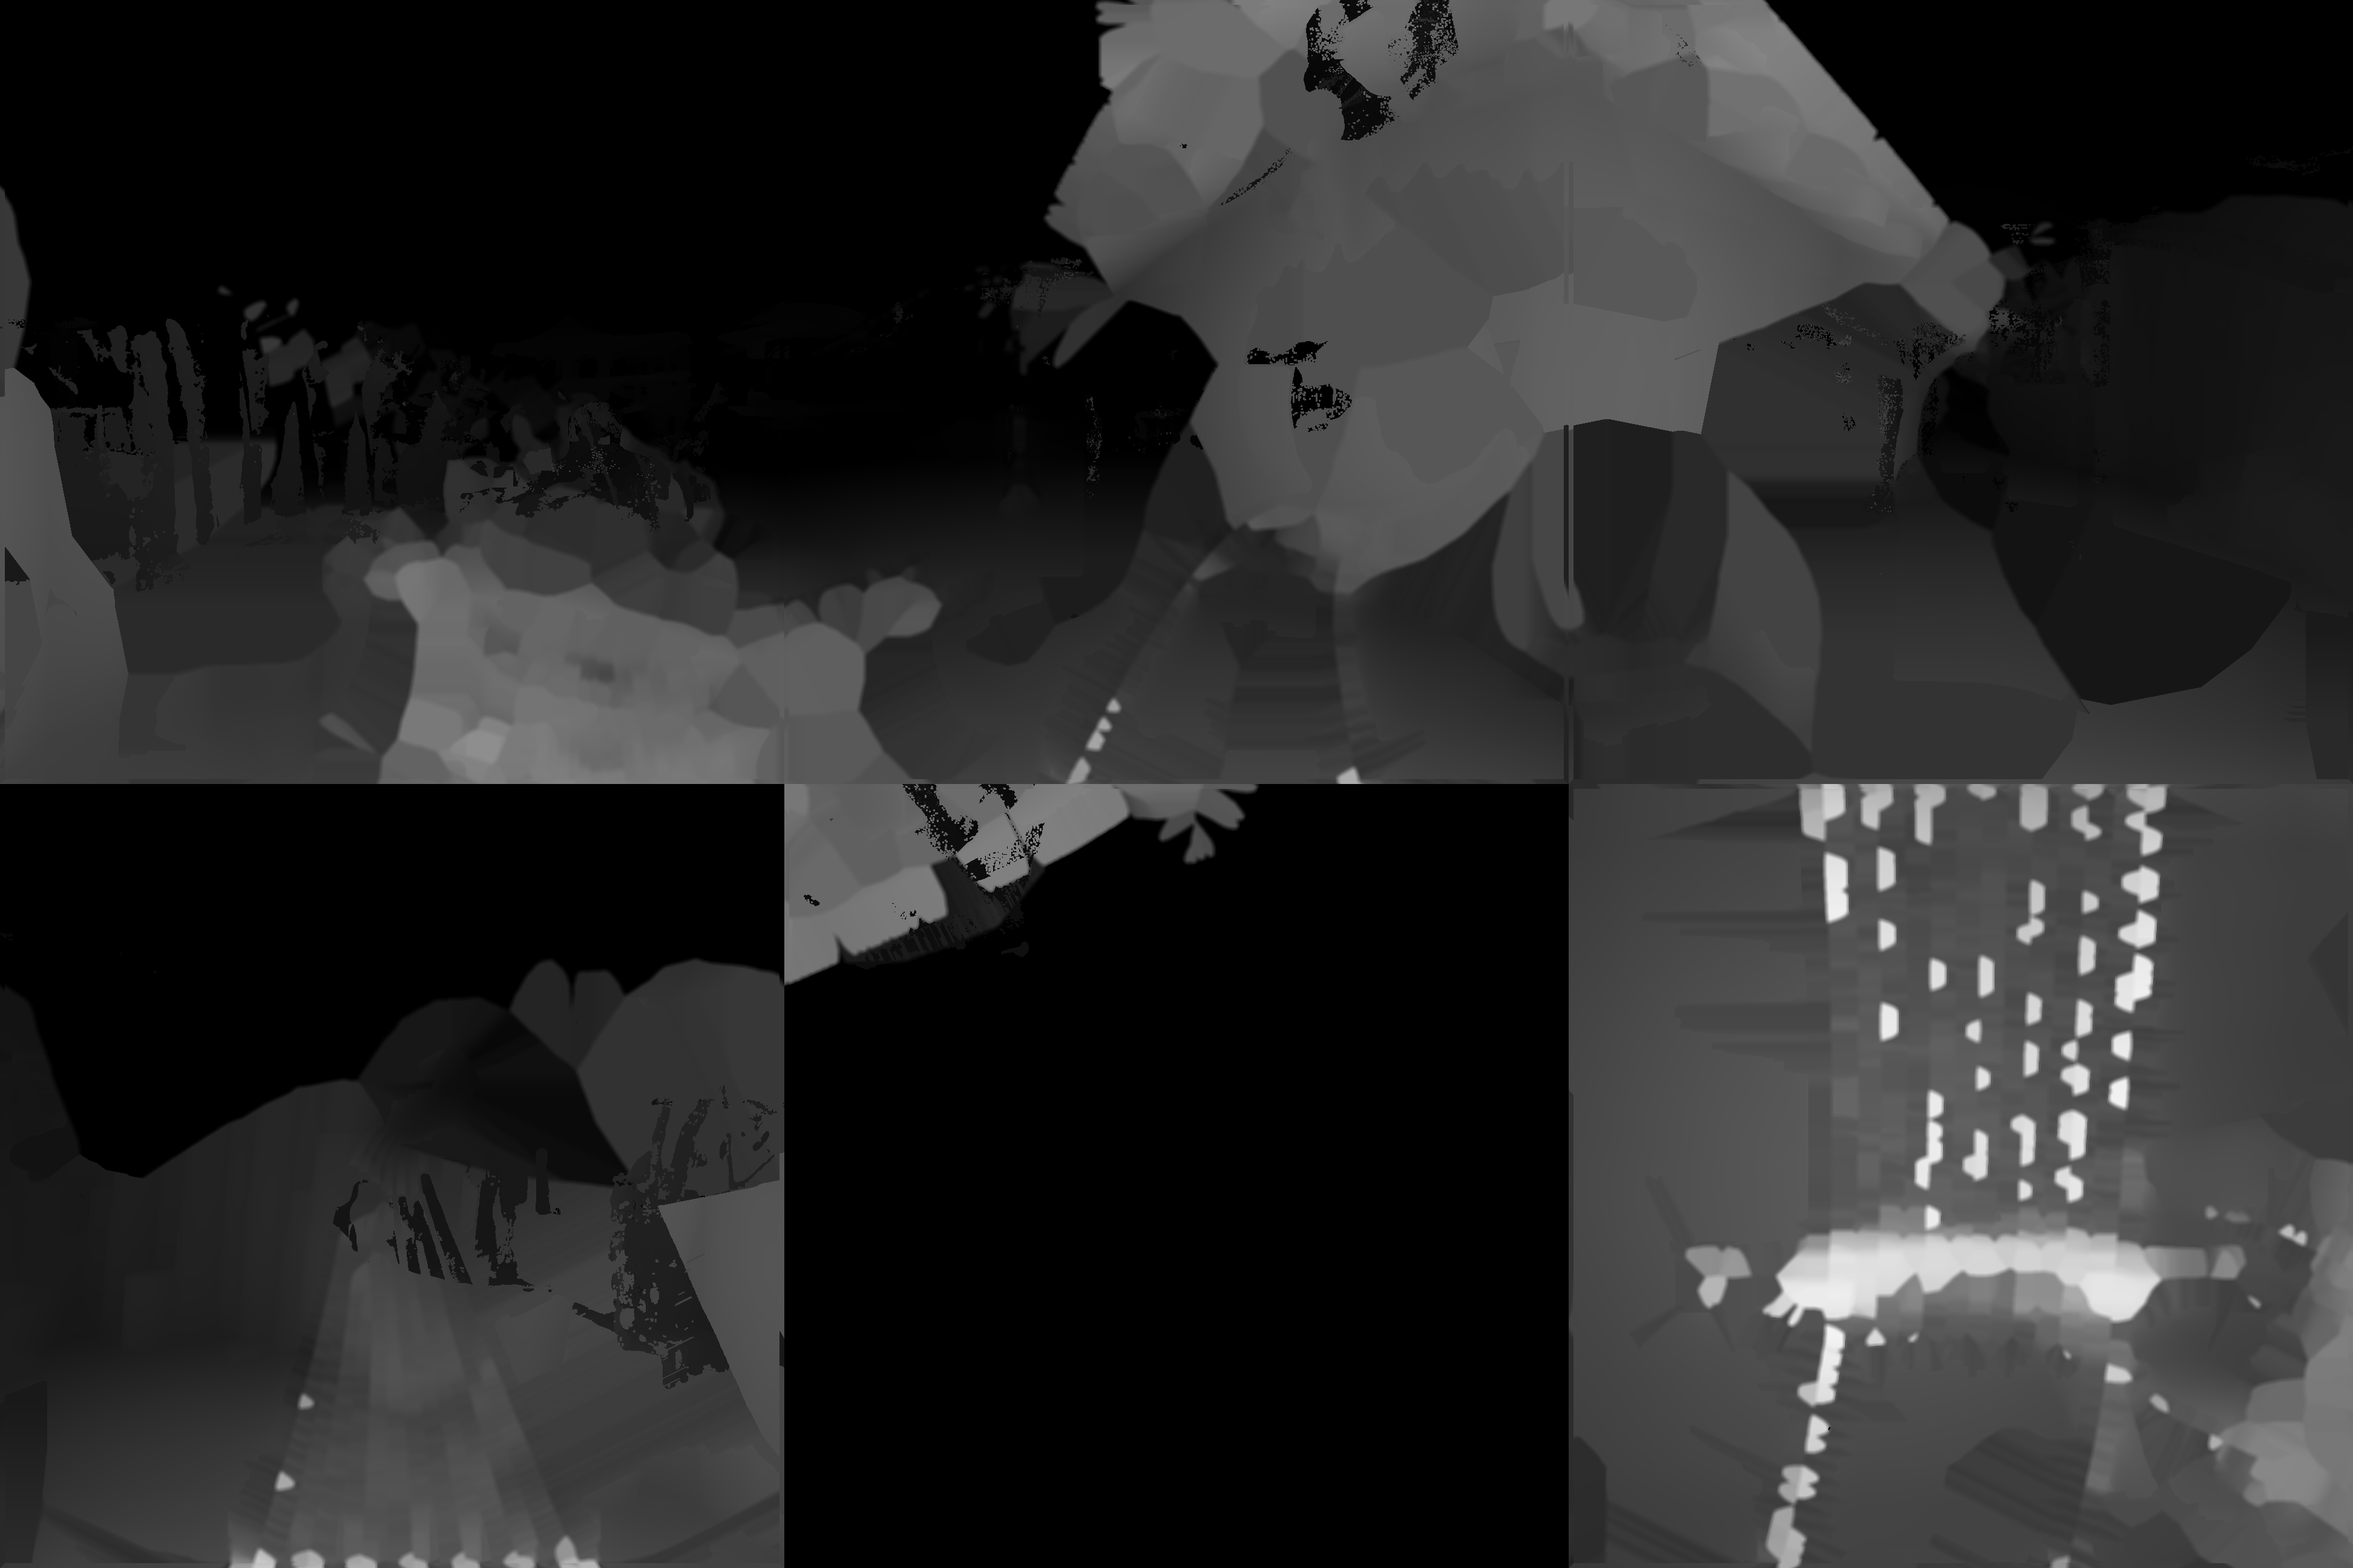
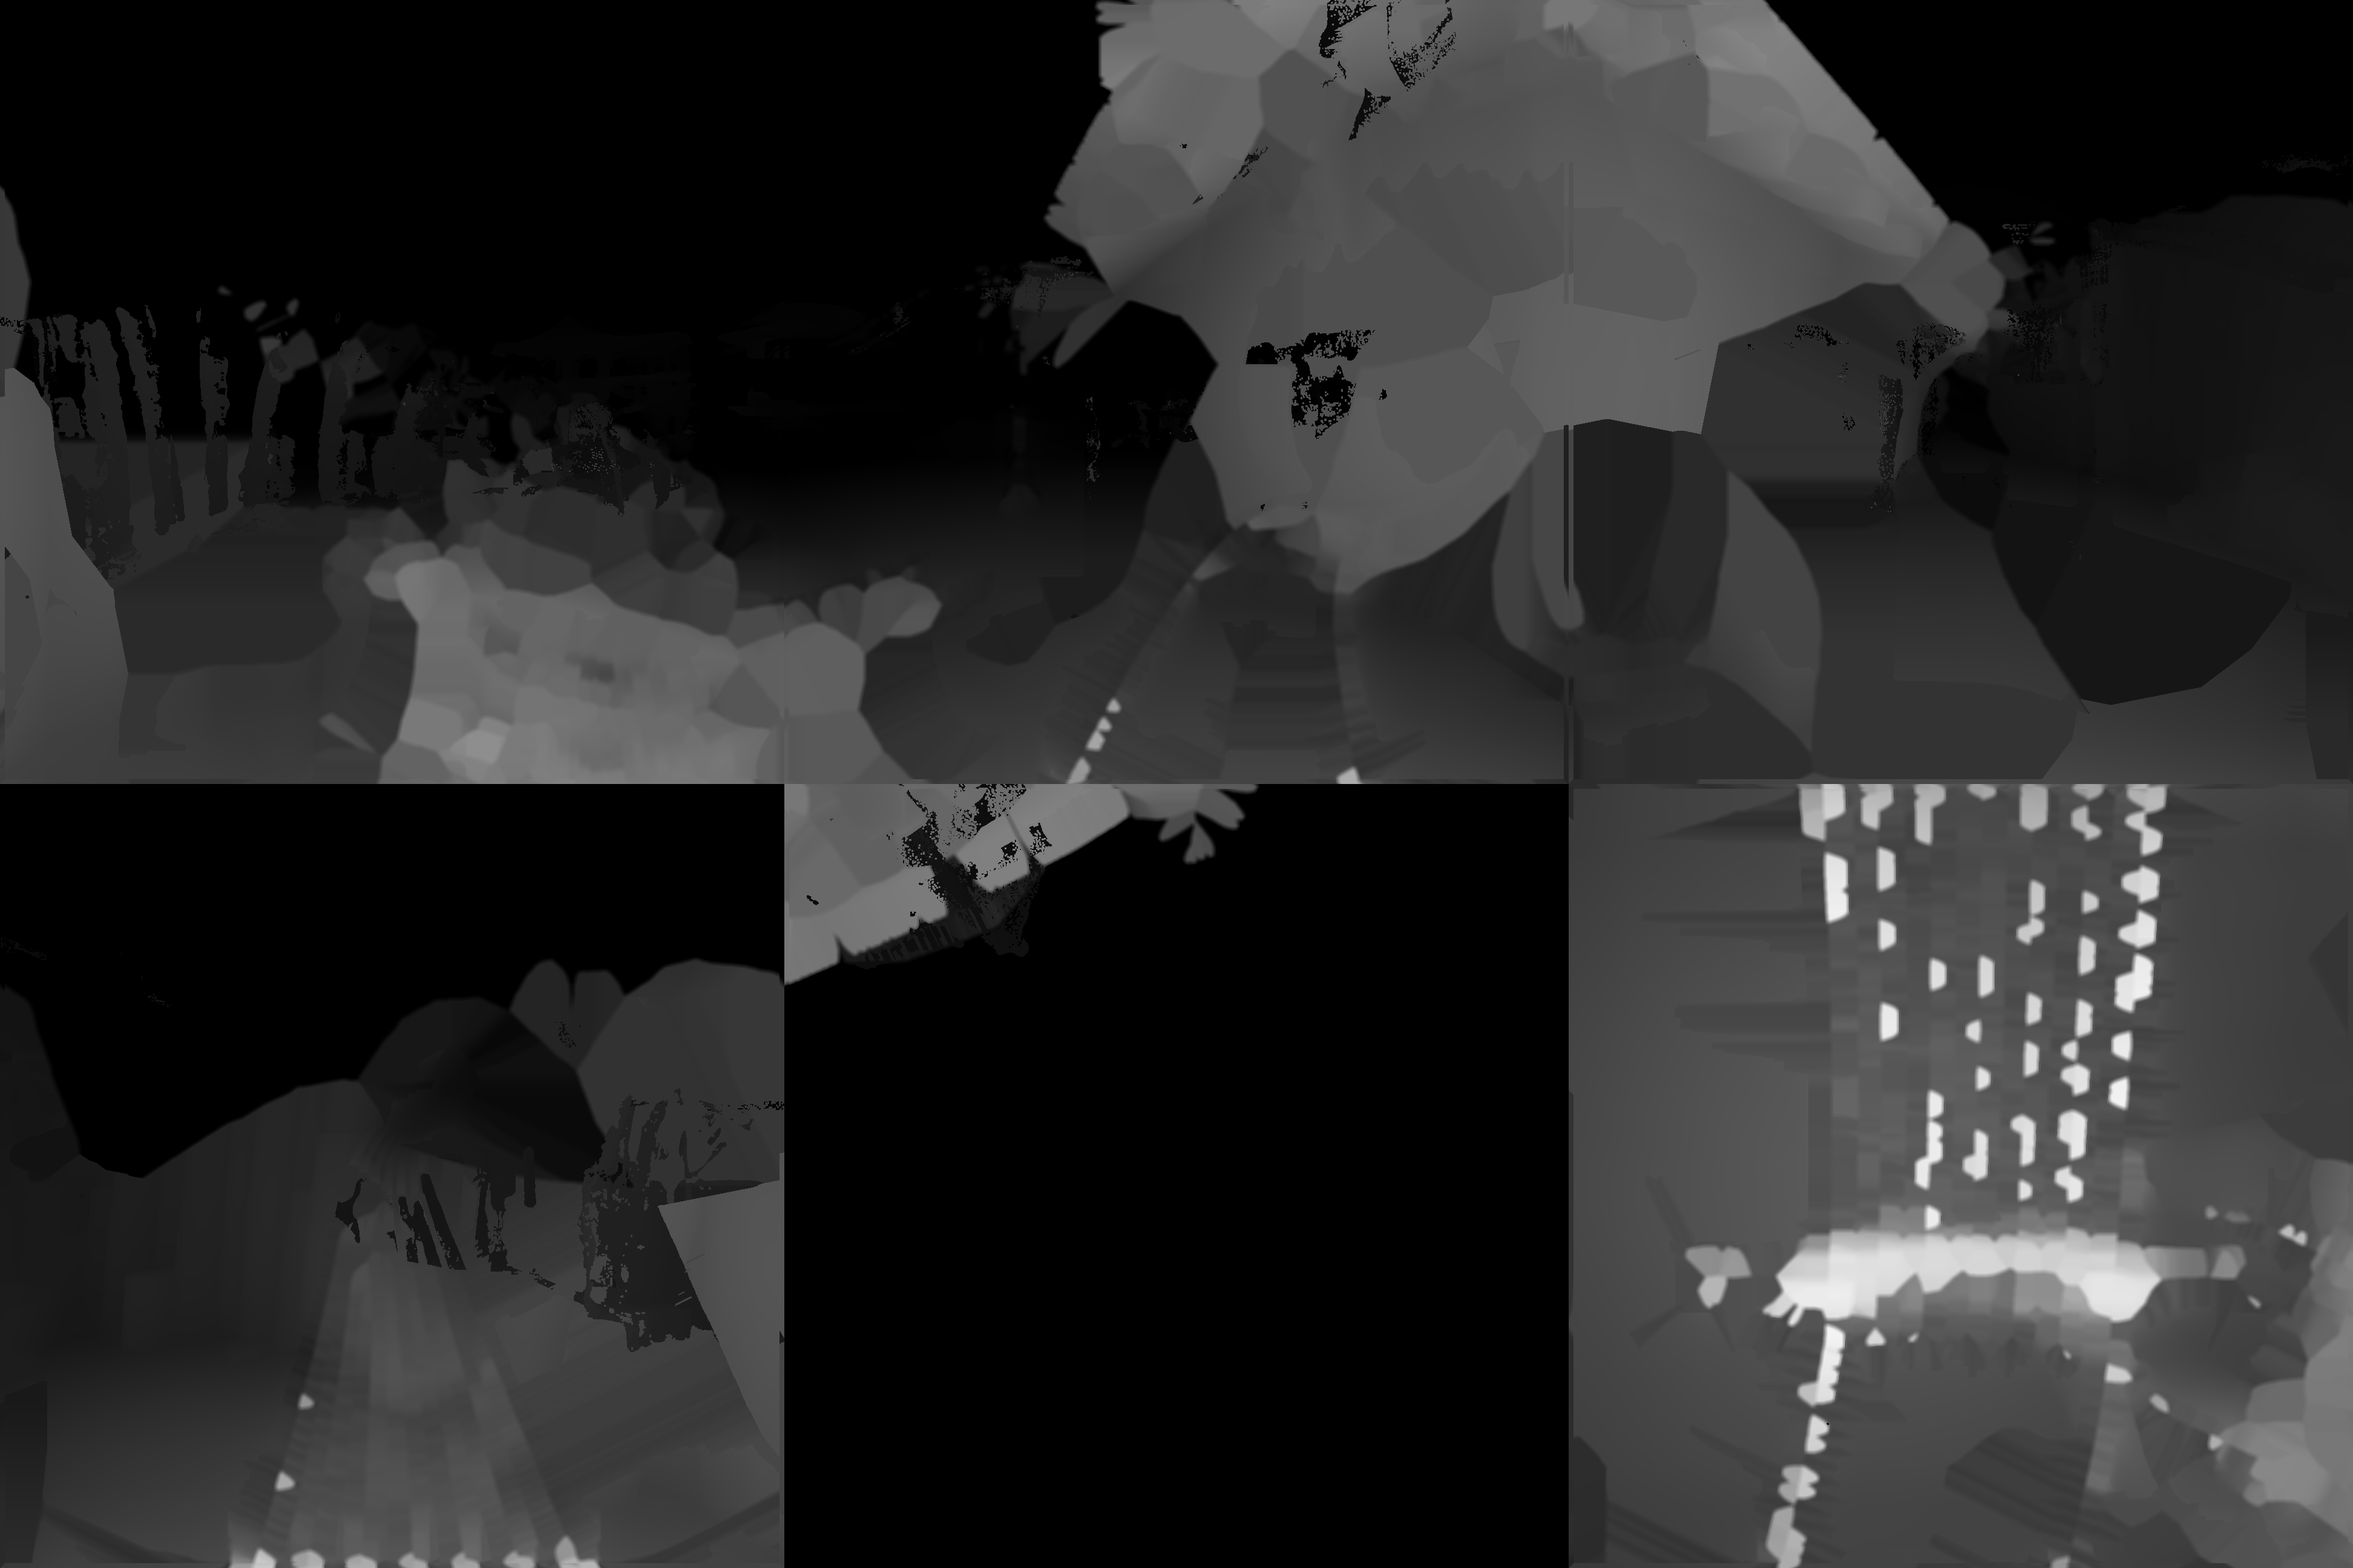
MASS 84's backdrop rebuilt from the model with its run moved back
Its neighbours were projected from where the joined model had misplaced the
MASS 82-90 run. From dense_movies_moved, other nodes' views now fill about 8%
of the hidden area inside near objects instead of 4% (face 6 18% from 6%), and
a figure the old placement put behind the arches is gone. build_layers.py
reports that share per face; the node file records the new inputs.

Claude-Session: https://claude.ai/code/session_01PGTZsQJKeQ77ippduWGzGV

diff --git a/cube/myst3/layers/build_layers.py b/cube/myst3/layers/build_layers.py
@@ -379,7 +379,10 @@ def main():
             keep = masks[k][inner]
             bg[k - 1][keep] = painted[keep]
         done[k - 1] = True
-        print(f'face {faces[k]}: {int(M[k - 1].sum())} px removed and painted ({M[k - 1].mean() * 100:.1f}%)')
+        inside = wholes[k][inner] & M[k - 1]
+        print(f'face {faces[k]}: {int(M[k - 1].sum())} px removed and painted ({M[k - 1].mean() * 100:.1f}%); '
+              f'inside near objects {int(inside.sum())} px, {used[k - 1][inside].mean() * 100 if inside.any() else 0:.1f}% '
+              f'of it seen by other nodes, the rest painted')
     q8 = lambda x: np.clip(np.rint(x), 0, 255).astype(np.uint8)
     for k, n in faces.items():
         d = dep[k].astype(np.float32)

diff --git a/cube/myst3/README.md b/cube/myst3/README.md
@@ -922,6 +922,25 @@ inside. So MASS 84 keeps its redrawn depth. Where DAP could count is at nodes
 with no measured depth, most of the game's, where nothing but blending holds
 Depth Anything's six faces together; not yet tried.
 
+### MASS 84's backdrop from the moved model
+
+MASS 84 is in the MASS 82-90 run moved back on 8 November 2026, so its
+backdrop, projected from its neighbours in `dense_movies`, had them from the
+wrong place. `build_layers.py` now says, per face, how much of the hidden area
+inside near objects other nodes saw. With `model_backdrop.py` on
+`dense_movies_moved` (r_far scaled by the run's 1.089, `node_depth_moved.json`):
+
+| face | 1 | 2 | 3 | 4 | 5 | 6 |
+|---|---|---|---|---|---|---|
+| seen by other nodes, old model | 0.6% | 0.0% | 5.5% | 0.6% | 14.1% | 6.1% |
+| seen by other nodes, moved model | 4.1% | 0.0% | 9.8% | 3.5% | 19.2% | 18.3% |
+
+About 8% of the hidden area instead of 4%, and on face 5 a red figure the old
+model put behind the arches is gone. LaMa still paints the rest: what is
+hidden from MASS 84 is mostly behind the house, which no node sees. Rebuilt
+from `layers/nodes/mass84.json` and shipped; the foreground atlases are
+unchanged.
+
 ## Depth for the site's Amateria node (MAWW 101)
 
 The site's Amateria location is MAWW node 101, node 1 with the console closed
